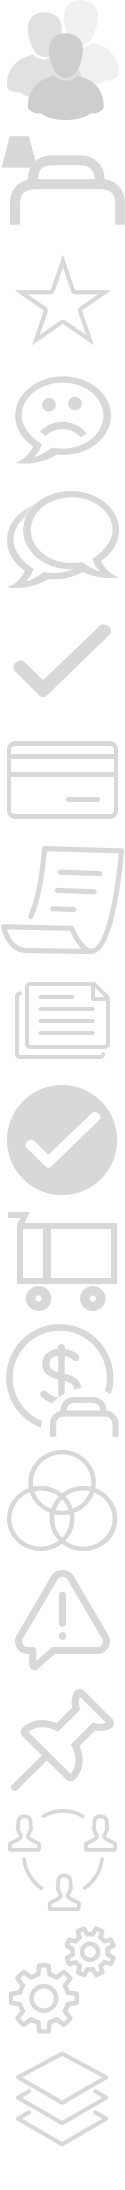
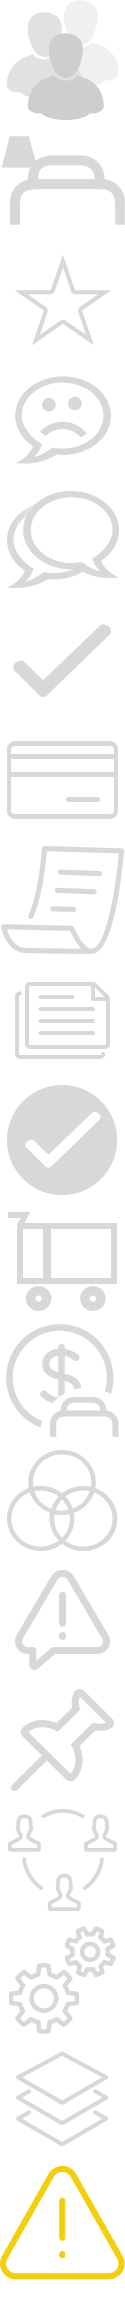
CICO-32390 - Style update

Changed region(s): [[0.0, 0.0311, 1.0, 0.9936], [0.072, 0.7763, 0.096, 0.8073]]

diff --git a/stylesheets/less/app/03_graphics.less b/stylesheets/less/app/03_graphics.less
@@ -32,6 +32,7 @@
 		&.icon-allotments { background-position: 0 -870px; }
 		&.icon-settings { background-position: 0 -930px; }
         &.icon-layers { background-position: 0 -990px; }
+        &.icon-alert { background-position: 0 -1050px; } 
 
 		@media only screen and (min-width: 600px) {
 			background-size: 125px;
@@ -55,6 +56,7 @@
 			&.icon-allotments { background-position: 0 -1800px; }
 			&.icon-settings { background-position: 0 -1920px; }
             &.icon-layers { background-position: 0 -2040px; }
+            &.icon-alert { background-position: 0 -2160px; }  
 		}
 
 		@media @highdpi { background-image: @iconNoContent2x; }

diff --git a/stylesheets/less/app/screens/21.end-of-day.less b/stylesheets/less/app/screens/21.end-of-day.less
@@ -182,6 +182,10 @@
                 }
             }
 
+            .alert {
+                color: @yellow;
+            }
+
             .button {
                 margin-top: 20px;
                 font-size: 24px;
